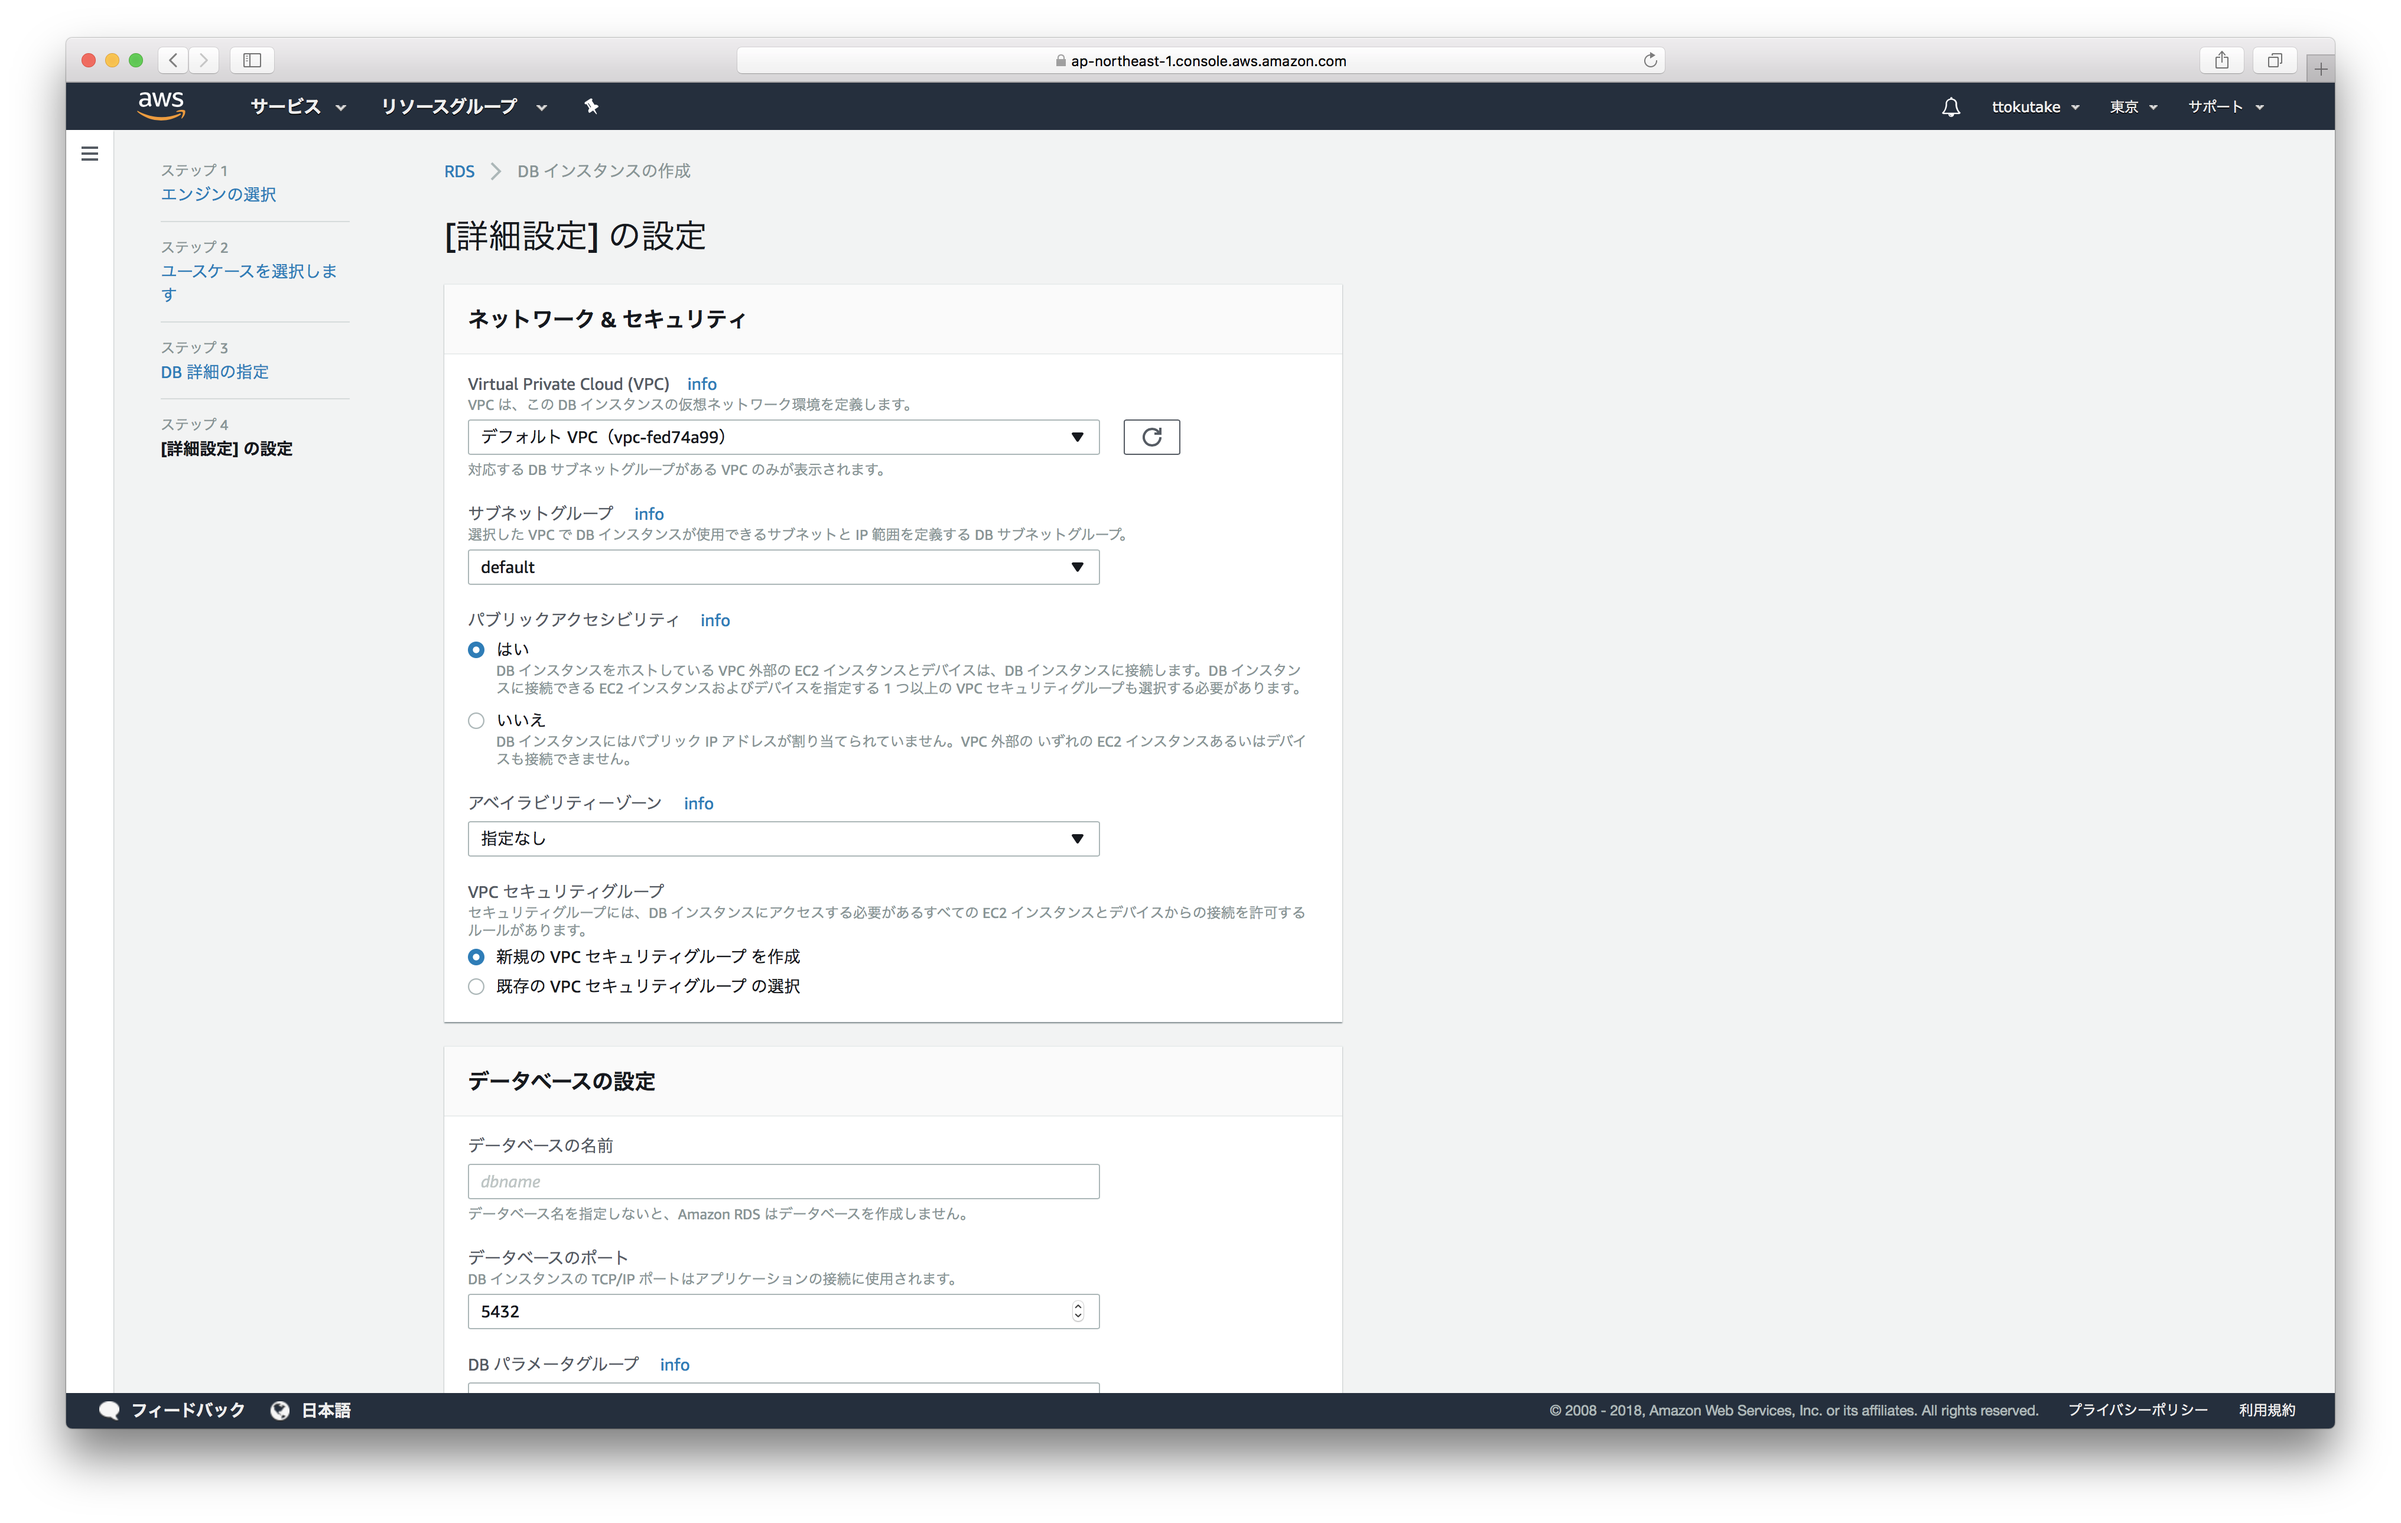
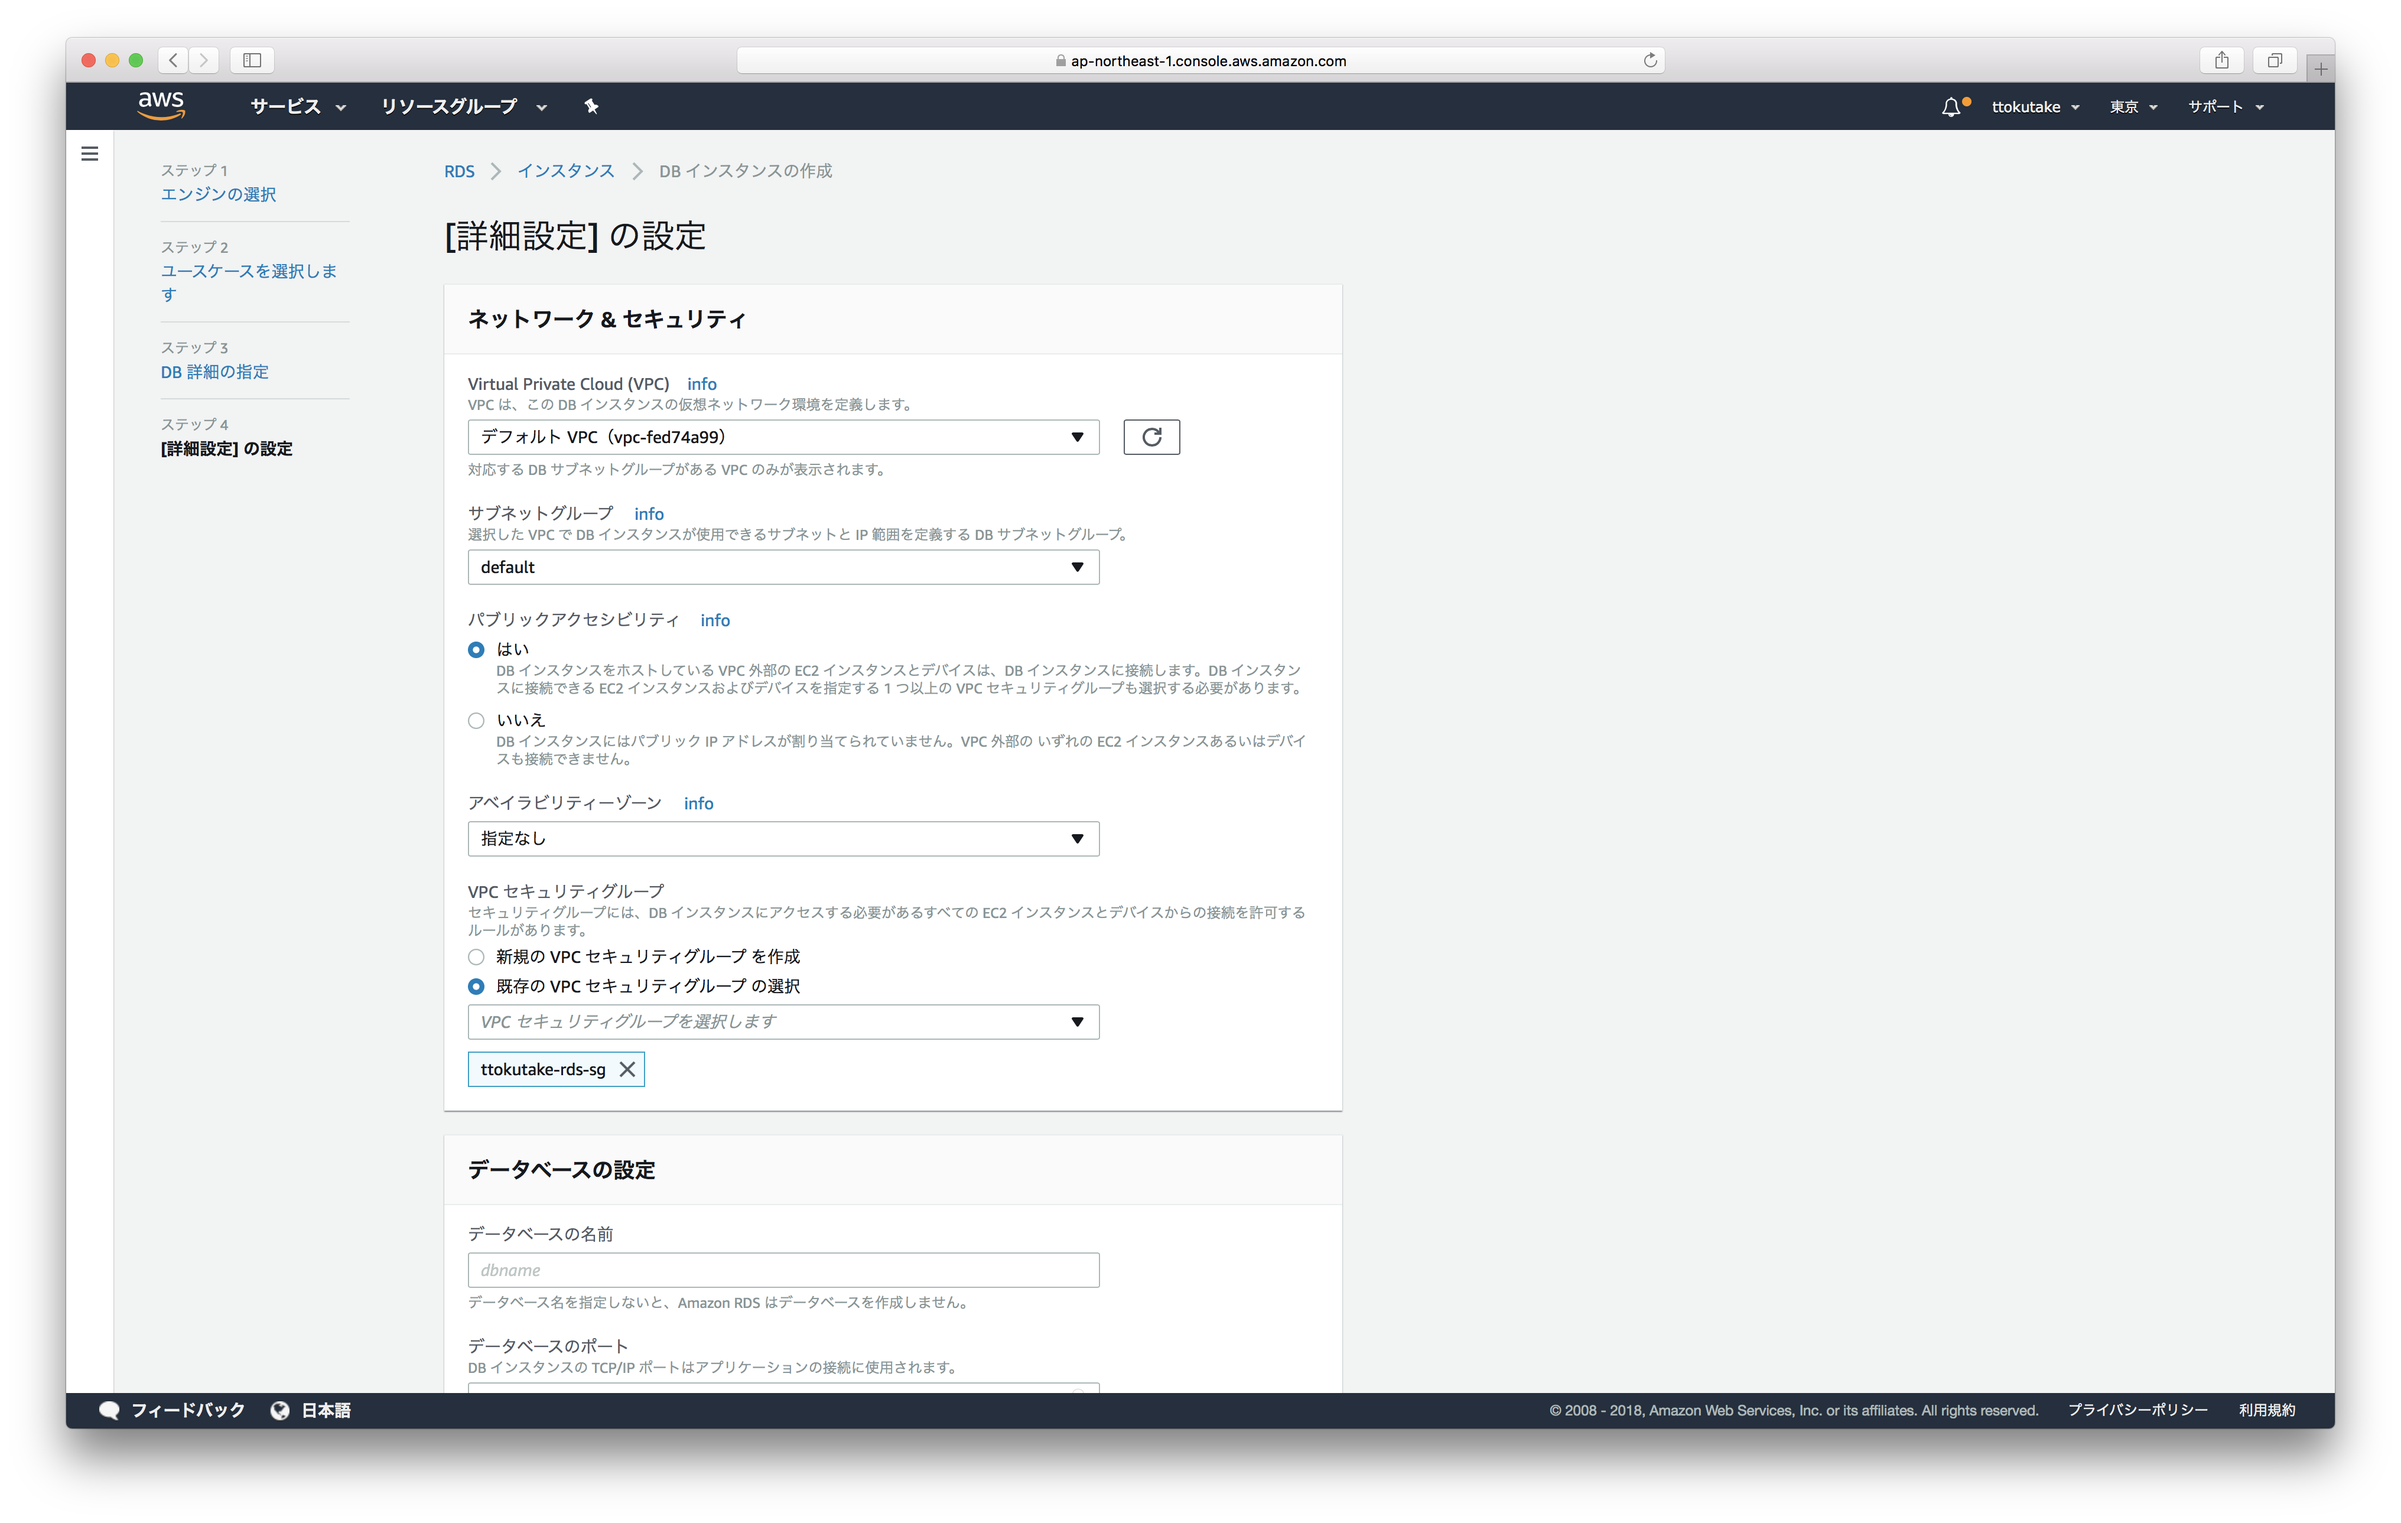
done RDS section

diff --git a/slide.md b/slide.md
@@ -317,7 +317,19 @@ TODO: 図を貼る
 
 ## RDS用のSGを作成する
 
+1: EC2の左メニューの"セキュリティグループ"を選ぶ
 
+<img src="./image/SG_for_RDS_list.png" alt="SGの一覧画面" width="720px">
+
+>>>
+
+## RDS用のSGを作成する
+
+2: "セキュリティグループの作成"をクリック
+
+3: 画像を参考に必要な項目を埋めて"作成"
+
+<img src="./image/SG_for_RDS_create.png" alt="SGの作成" width="720px">
 
 >>>
 
@@ -373,7 +385,7 @@ TODO: 図を貼る
 
 ## RDSインスタンスを立ち上げる
 
-8: "ネットワーク&セキュリティ"はそのままでOK
+8: 先ほど作ったRDS用のSGを選択
 
 <img src="./image/RDS_creation_detail3.png" alt="RDSインスタンス作成(詳細3)" width="720px">
 
@@ -428,13 +440,164 @@ TODO: 図を貼る
 
 >>>
 
-## CLI Clientから操作
+## PostgreSQLを使ってみる
 
-- TODO: テーブル作成
-- TODO: レコード挿入
-- TODO: スナップショット作成
-- TODO: テーブル削除
-- TODO: スナップショットから復元
+1: RDSのPostgreSQLに接続してみよう
+
+```bash
+$ psql --version
+psql (PostgreSQL) 9.6.6
+
+$ psql -h (RDSインスタンスのエンドポイント) -d (データベース名) -U (ユーザー名)
+Password for user ttokutake: (ここでパスワードを入力)
+psql (9.6.6)
+Type "help" for help.
+
+sample=>
+```
+
+>>>
+
+## PostgreSQLを使ってみる
+
+2: テーブル作成
+
+```
+sample=> create table users (id integer, name text);
+CREATE TABLE
+```
+
+3: レコード挿入
+
+```
+sample=> insert into users values (1, 'Taro');
+INSERT 0 1
+sample=> insert into users values (2, 'Jiro');
+INSERT 0 1
+sample=> select * from users;
+ id | name
+----+------
+  1 | Taro
+  2 | Jiro
+(2 rows)
+```
+
+>>>
+
+## スナップショットから復元
+
+1: スナップショットを作成してみよう
+
+<img src="./image/RDS_snapshot_create1.png" alt="RDSスナップショット一覧画面" width="720px">
+
+>>>
+
+## スナップショットから復元
+
+2: 画像を参考に"スナップショット名"を入力して"スナップショットの取得"
+
+<img src="./image/RDS_snapshot_create2.png" alt="RDSスナップショット作成" width="720px">
+
+>>>
+
+## スナップショットから復元
+
+3: スナップショット作成の完了を確認
+
+<img src="./image/RDS_snapshot_list.png" alt="RDSスナップショット一覧画面" width="720px">
+
+>>>
+
+## スナップショットから復元
+
+4: テーブルを削除してみる
+
+```
+sample=> drop table users;
+DROP TABLE
+
+sample=> select * from users;
+ERROR:  relation "users" does not exist
+LINE 1: select * from users;
+                      ^
+
+sample=> \q
+```
+
+>>>
+
+## スナップショットから復元
+
+5: スナップショットの詳細画面で"スナップショットの復元"をクリック
+
+<img src="./image/RDS_snapshot_restore1.png" alt="RDSスナップショット詳細画面" width="720px">
+
+>>>
+
+## スナップショットから復元
+
+6: "DBインスタンスのクラス"を"db.t2.micro"に
+
+7: "DBインスタンス識別子"に適当な名前を入力
+
+<img src="./image/RDS_snapshot_restore2.png" alt="RDSスナップショットから復元1" width="720px">
+
+>>>
+
+## スナップショットから復元
+
+8: "DBインスタンスの復元"をクリック
+9: 作成完了まで待つ
+
+<img src="./image/RDS_snapshot_restore3.png" alt="RDSスナップショットから復元2" width="720px">
+
+>>>
+
+## スナップショットから復元
+
+10: 新たなインスタンスの詳細画面で"変更"を選ぶ
+
+<img src="./image/RDS_change_sg1.png" alt="RDSのSG変更1" width="720px">
+
+>>>
+
+## スナップショットから復元
+
+11: 画像を参考に"セキュリティグループ"で自分のものを選択
+
+<img src="./image/RDS_change_sg2.png" alt="RDSのSG変更2" width="720px">
+
+>>>
+
+## スナップショットから復元
+
+12: 下にスクロールして"次へ"
+
+<img src="./image/RDS_change_sg3.png" alt="RDSのSG変更3" width="720px">
+
+>>>
+
+## スナップショットから復元
+
+13: "すぐに適用"を選んで"DBインスタンスの変更"
+
+<img src="./image/RDS_change_sg4.png" alt="RDSのSG変更4" width="720px">
+
+>>>
+
+## スナップショットから復元
+
+14: 新しいインスタンスの"エンドポイント"を確認しよう
+
+15: 新しいインスタンスに接続してテーブルが復元されてるか確認しよう
+
+>>>
+
+## ここまでやったこと
+
+1. RDSインスタンス(PostgreSQL)を作成してみた
+2. PostgreSQLを使ってみた
+3. スナップショットからRDSインスタンスを復元してみた
 
 ---
 
